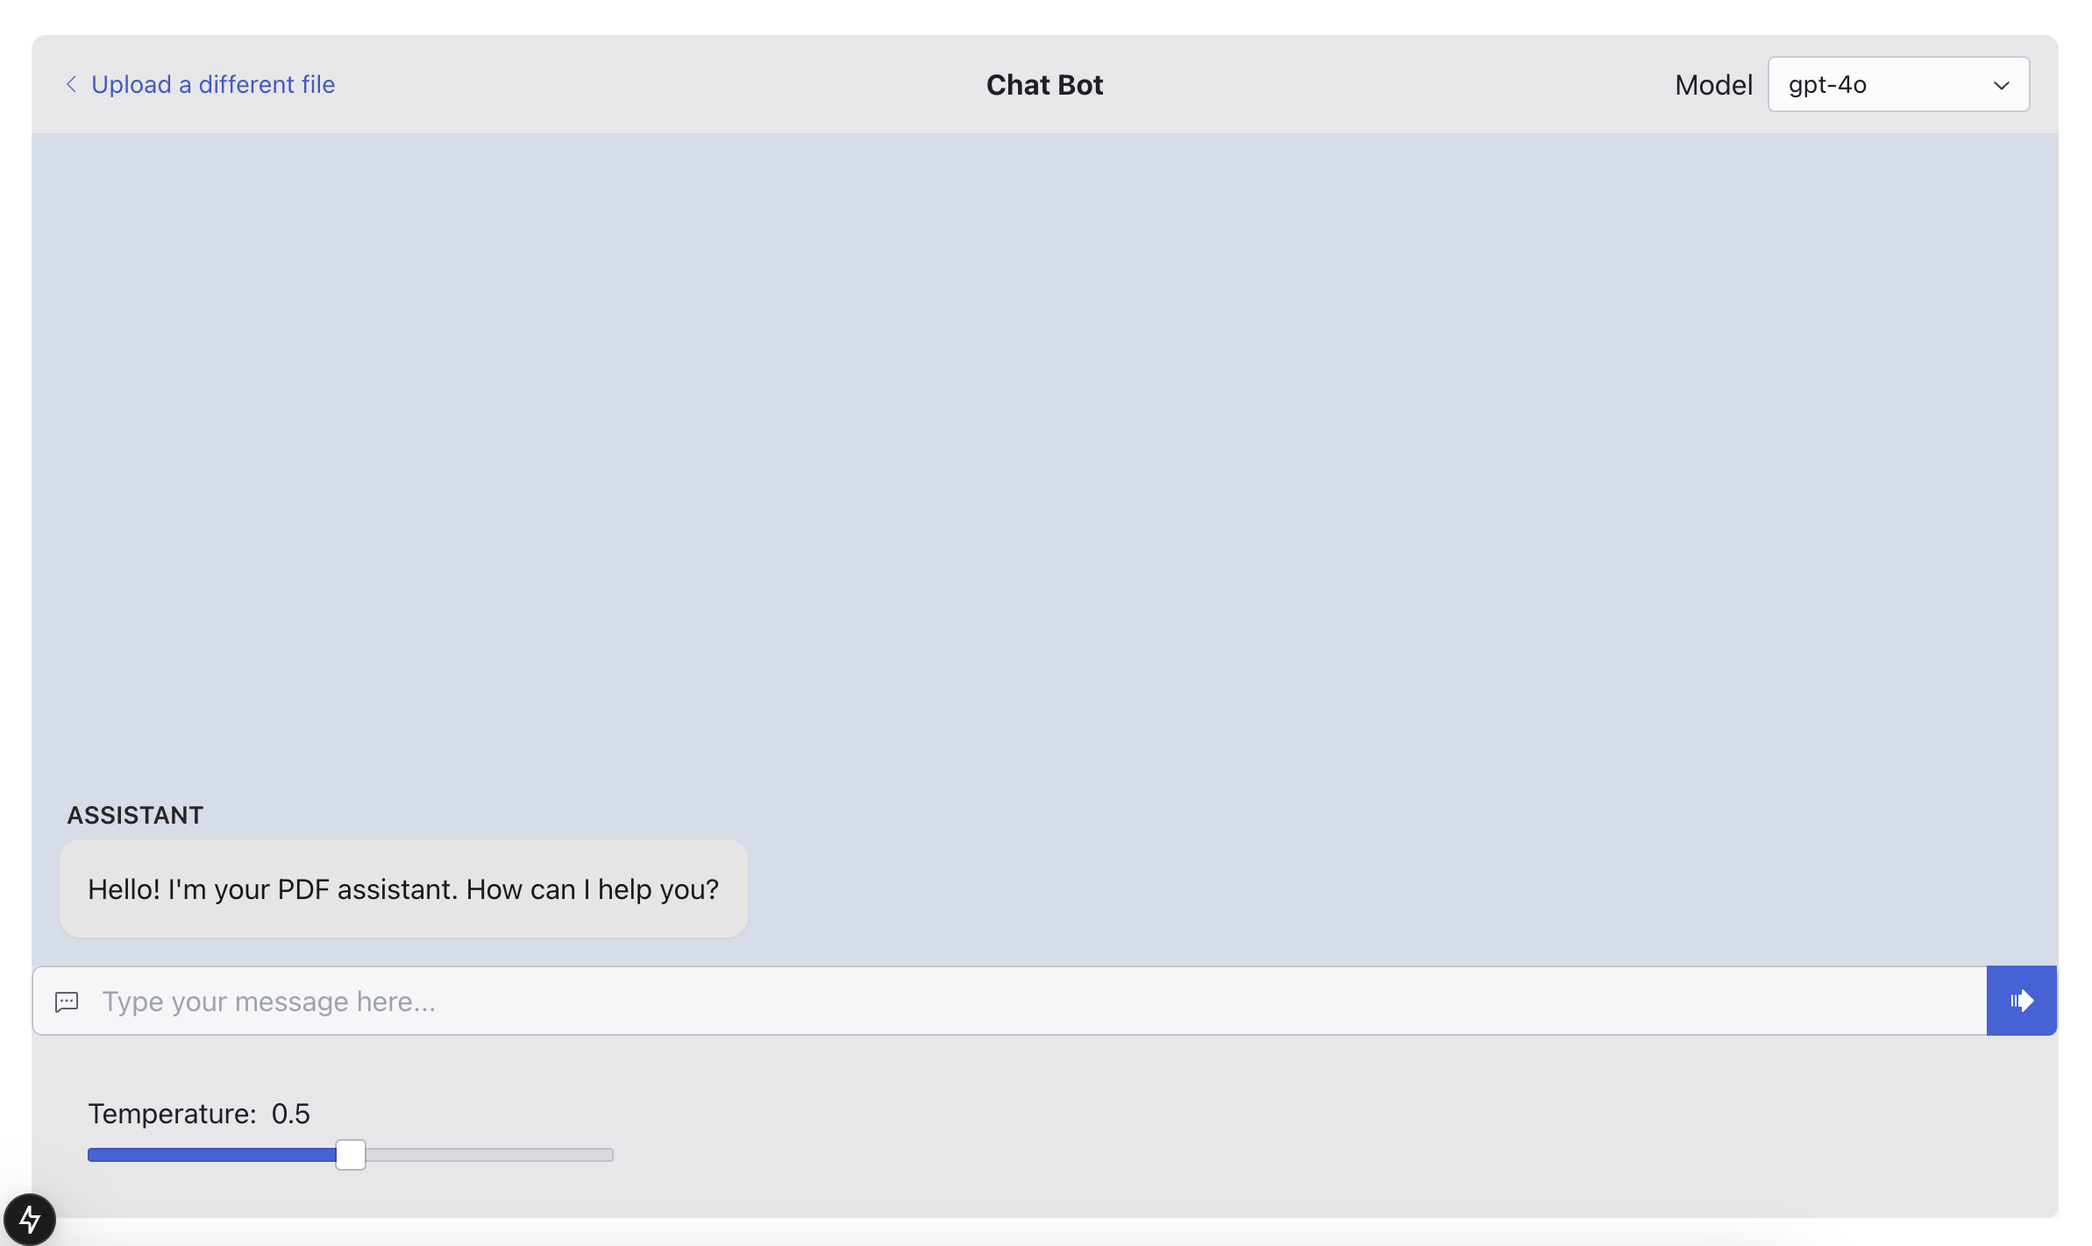
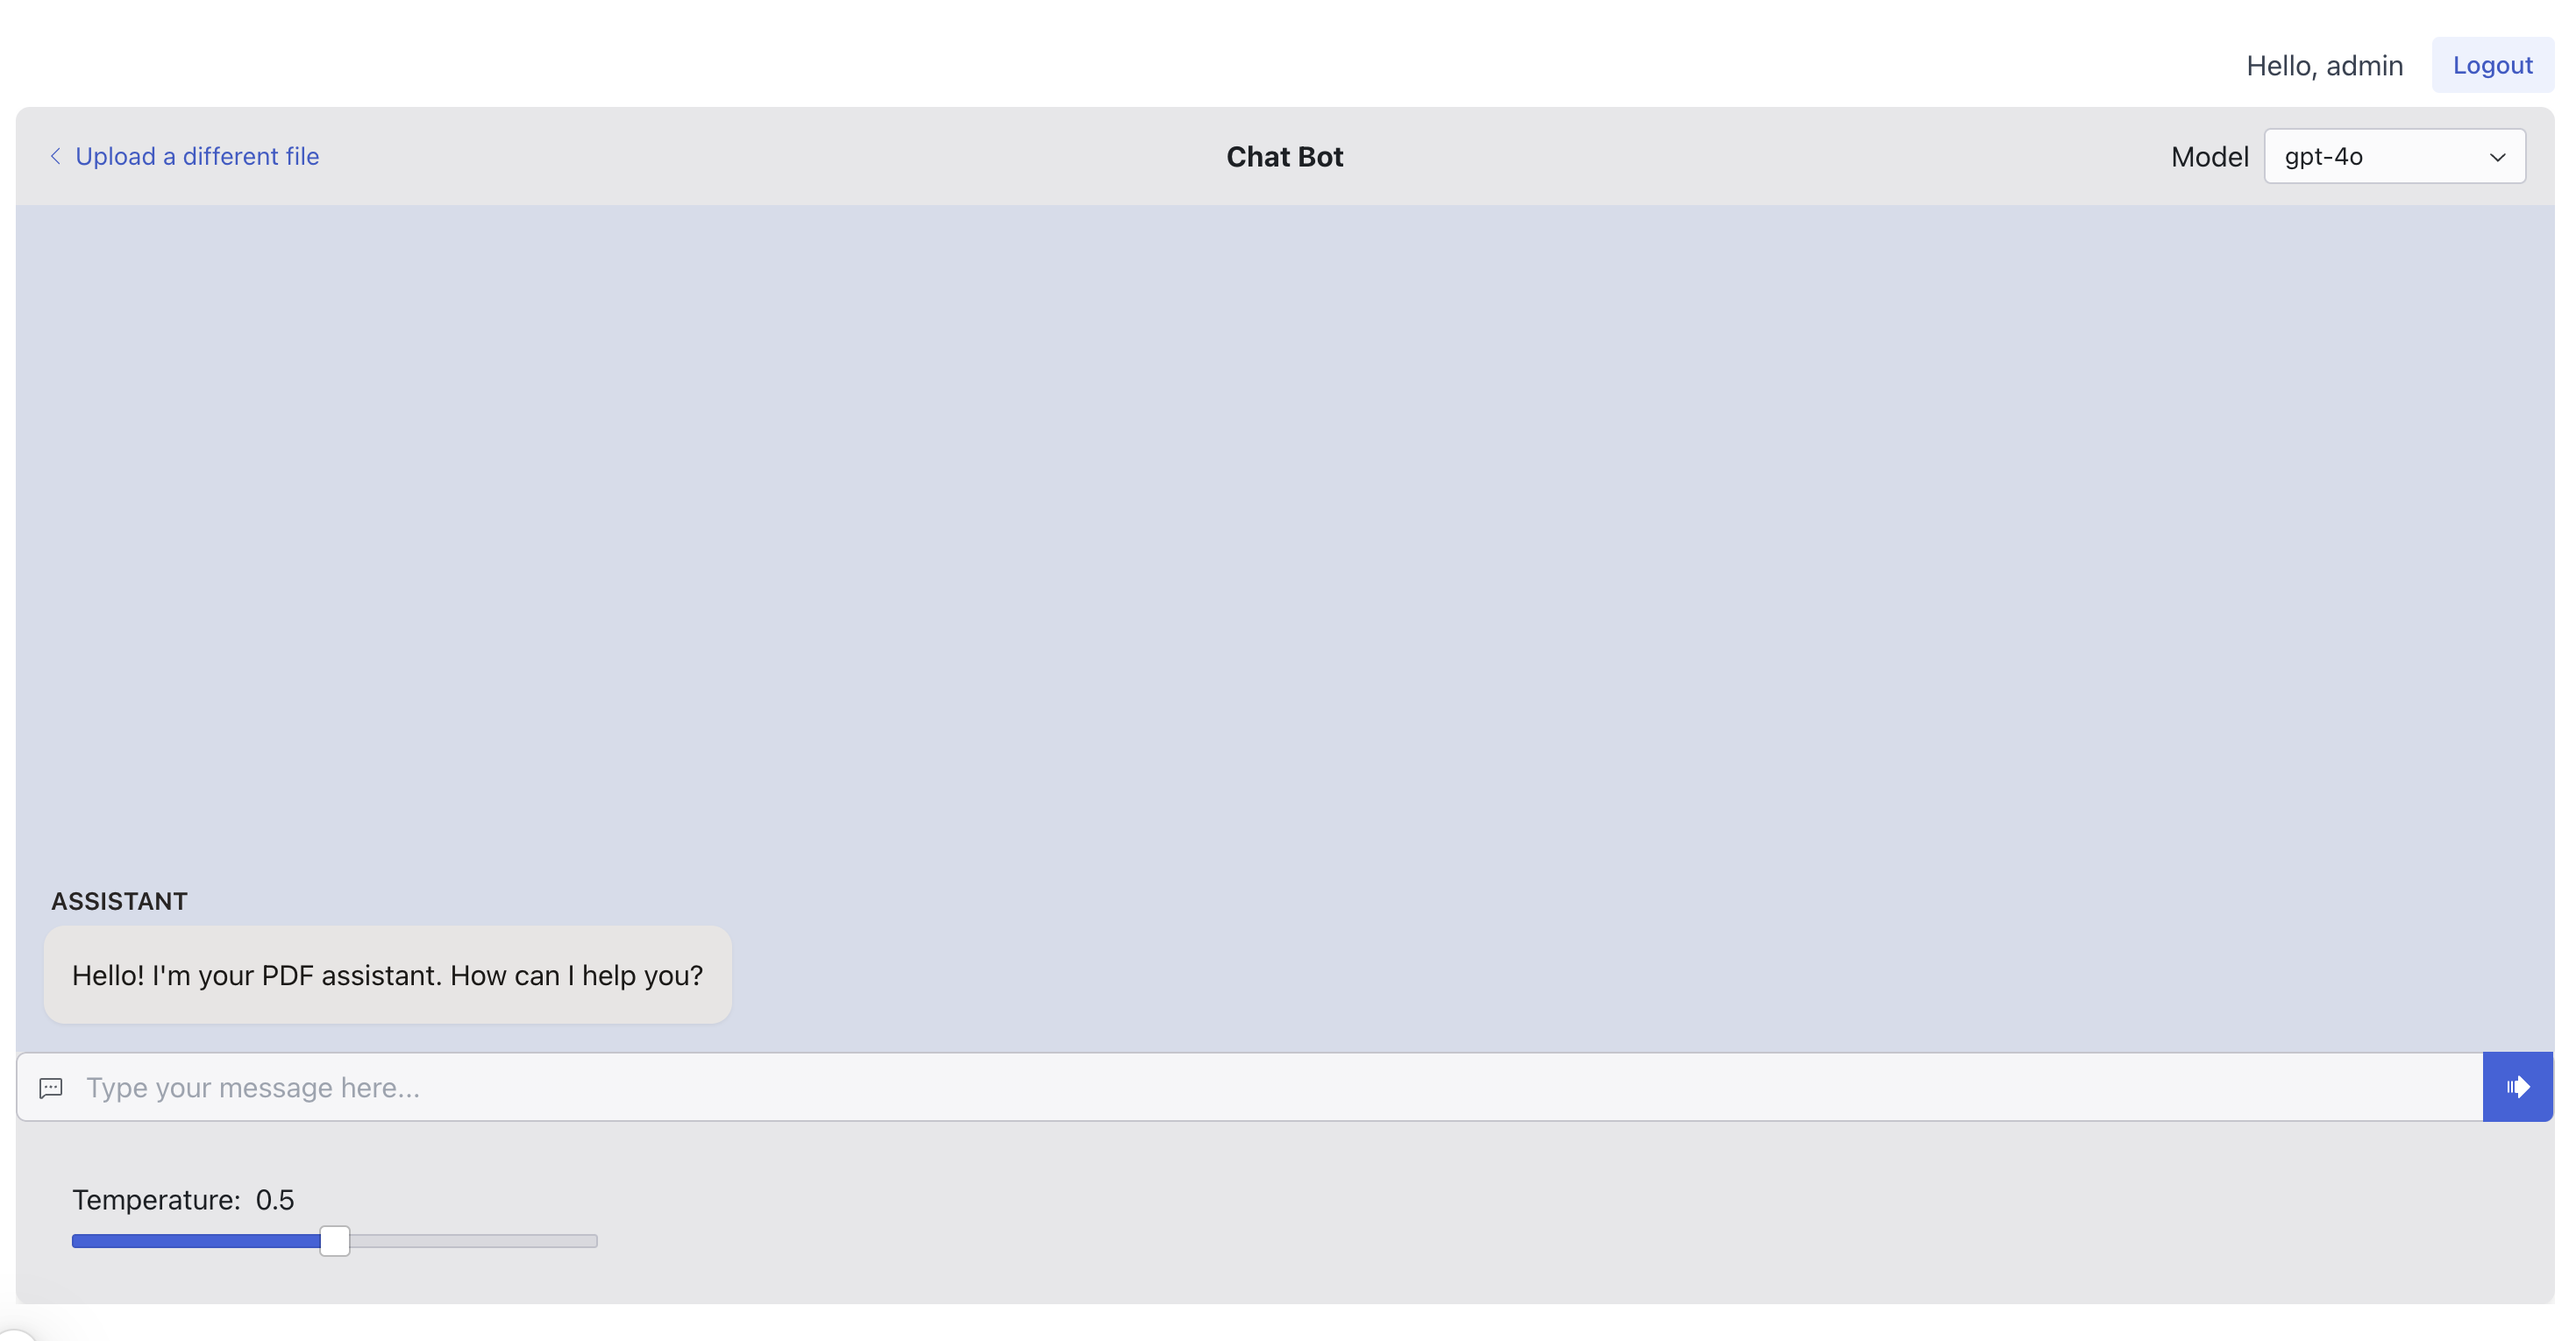
Updated Screenshots

diff --git a/src/app/login/page.tsx b/src/app/login/page.tsx
@@ -27,7 +27,6 @@ export default function Login() {
       });
 
       const data = await res.json();
-      setIsLoading(false);
       
       if (res.ok) {
         localStorage.setItem('user', data.user);
@@ -39,6 +38,7 @@ export default function Login() {
     } catch {
       setError('An error occurred during login');
     }
+    setIsLoading(false);
   };
 
   return (

diff --git a/README.md b/README.md
@@ -49,6 +49,9 @@ Open [http://localhost:3000](http://localhost:3000) with your browser to see the
 
 ### Application Screenshots
 
+### Login Page
+![Login Page](./screenshots/login.png "Login Page")
+
 ### Upload Page
 ![Upload Page](./screenshots/upload.png "Upload Page")
 
